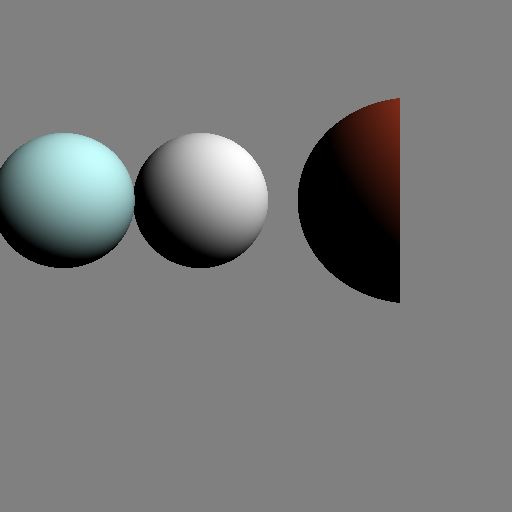
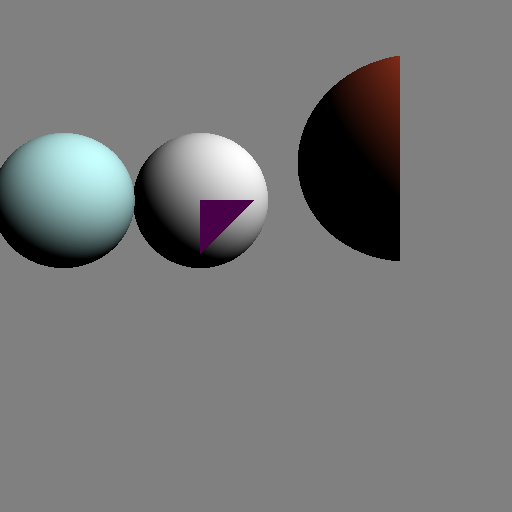
Perspective Rotation
all geometric objects and lights have rotation and translation

Changed region(s): [[0.5625, 0.0938, 0.7812, 0.5938], [0.375, 0.375, 0.5, 0.5]]

diff --git a/RayTracer/src/main.cpp b/RayTracer/src/main.cpp
@@ -14,8 +14,6 @@ int main()
 	sptr<World> spWorld(new World());
 	World& world = *spWorld;
 
-	//Geometry* t = new Triangle(Vector(10, 10, 0), Vector(10, -10, 0), Vector(20, 0, 0));
-	//Geometry* t2 = new Triangle(Vector(10, -10, 0), Vector(15, -20, -10), Vector(20, 0, 0));
 	Geometry* s = NULL;
 		
 	s = new Sphere(Vector(200, 0, 0), 50);
@@ -26,22 +24,29 @@ int main()
 	s->color = sf::Color(200, 255, 255);
 	world.geometry.push_back(sptr<Geometry>(s));
 
-	s = new Sphere(Vector(100, -100, 0), 50);
+	s = new Sphere(Vector(100, -100, 20), 50);
 	s->color = sf::Color(200, 69, 40);
 	world.geometry.push_back(sptr<Geometry>(s));
 
+
+	Geometry* t = new Triangle(Vector(50, 0, 0), Vector(50, 0, -20), Vector(50, -20, 0));
+	world.geometry.push_back(sptr<Geometry>(t));
+
+
 	Light* l = new DirectionalLight(sf::Color(255, 255, 255), Vector(1, 1, -1));
-
-
-
-	//world.geometry.push_back(sptr<Geometry>(t));
-	//world.geometry.push_back(sptr<Geometry>(t2));
-
 	world.lights.push_back(sptr<Light>(l));
 
-	world.render(400, 400, 100, 100, RenderMode::Orthographic);
+	world.render(400, 400, 100, 100, RenderMode::Orthographic);//img1
 	world.save(content + "frame_Ortho.png");
-	world.render(400, 400, 100, 100, RenderMode::PerspectivePlane);
+	world.render(400, 400, 100, 100, RenderMode::PerspectivePlane);//img2
 	world.save(content + "frame_PerspPlane.png");
+
+
+	world.camera.yaw(-0.3, world);
+	world.render(400, 400, 100, 100, RenderMode::PerspectivePlane);
+	world.save(content + "frame_PerspPlane3.png");
+	world.camera.yaw(-0.6, world);
+	world.render(400, 400, 100, 100, RenderMode::PerspectivePlane);
+	world.save(content + "frame_PerspPlane6.png");
 	return 0;
 }

diff --git a/RayTracer/src/World/Camera.cpp b/RayTracer/src/World/Camera.cpp
@@ -1,5 +1,7 @@
 #include "Camera.hpp"
 #include "World.hpp"
+#include "Geometry.hpp"
+#include "Light.hpp"
 
 using namespace leon;
 
@@ -14,23 +16,34 @@ Camera::~Camera()
 {
 
 }
-void Camera::move(const Vector& pos, World& world)
+void Camera::move(const Vector& dir, World& world)//direction relative to camera position
 {
-	//apply translation pos to world
+	vector<sptr<Geometry> >& geos = world.geometry;
+	vector<sptr<Light> >& lights = world.lights;
+
+	for(auto it = geos.begin(); it != geos.end(); ++it)
+		(**it).translate(dir);
+
+	for(auto it = lights.begin(); it != lights.end(); ++it)
+		(**it).translate(dir);
 }
 void Camera::yaw(double radCCW, World& world)
 {
-	Mat3d rotCam;
+	Matrix rotCam;
 	rotCam.setRotMat(up, radCCW);
-	rotCam.transpose();
+	transformWorld(rotCam, world);
 }
 void Camera::pitch(double radCCW, World& world)
 {
-
+	Matrix rotCam;
+	rotCam.setRotMat(up.cross(direction), radCCW);
+	transformWorld(rotCam, world);
 }
 void Camera::roll(double radCCW, World& world)
 {
-
+	Matrix rotCam;
+	rotCam.setRotMat(direction, radCCW);
+	transformWorld(rotCam, world);
 }
 const Vector& Camera::getPosition()
 {
@@ -44,4 +57,15 @@ const Vector& Camera::getUp()
 {
 	return up;
 }
+void Camera::transformWorld(Matrix rotMatrix, World& world) const
+{
+	rotMatrix.transpose();
+	vector<sptr<Geometry> >& geos = world.geometry;
+	vector<sptr<Light> >& lights = world.lights;
 
+	for(auto it = geos.begin(); it != geos.end(); ++it)
+		(**it).transform(rotMatrix);
+
+	for(auto it = lights.begin(); it != lights.end(); ++it)
+		(**it).transform(rotMatrix);
+}

diff --git a/RayTracer/include/World/Camera.hpp b/RayTracer/include/World/Camera.hpp
@@ -11,7 +11,7 @@ namespace leon
 		Camera();
 		~Camera();
 
-		void move(const Vector& pos, World& world);
+		void move(const Vector& dir, World& world);
 		void yaw(double radCCW, World& world);
 		void pitch(double radCCW, World& world);
 		void roll(double radCCW, World& world);
@@ -22,6 +22,8 @@ namespace leon
 
 		double eyedist;
 	protected:
+		void transformWorld(Matrix rotMatrix, World& world) const;
+
 		Vector position;
 		Vector direction;
 		Vector up;

diff --git a/RayTracer/src/World/Triangle.cpp b/RayTracer/src/World/Triangle.cpp
@@ -49,4 +49,15 @@ Vector Triangle::getNormal(const Vector& point) const
 {
 	return plane.normal;
 }
-
+void Triangle::translate(const Vector& dist)
+{
+	a = a + dist;
+	b = b + dist;
+	c = c + dist;
+}
+void Triangle::transform(const Matrix& rot)
+{
+	a = rot*a;
+	b = rot*b;
+	c = rot*c;
+}

diff --git a/RayTracer/include/World/Triangle.hpp b/RayTracer/include/World/Triangle.hpp
@@ -13,6 +13,9 @@ namespace leon
 
 		virtual Vector getNormal(const Vector& point) const;
 
+		virtual void translate(const Vector& dist);
+		virtual void transform(const Matrix& rot);
+
 		Vector a;
 		Vector b;
 		Vector c;
